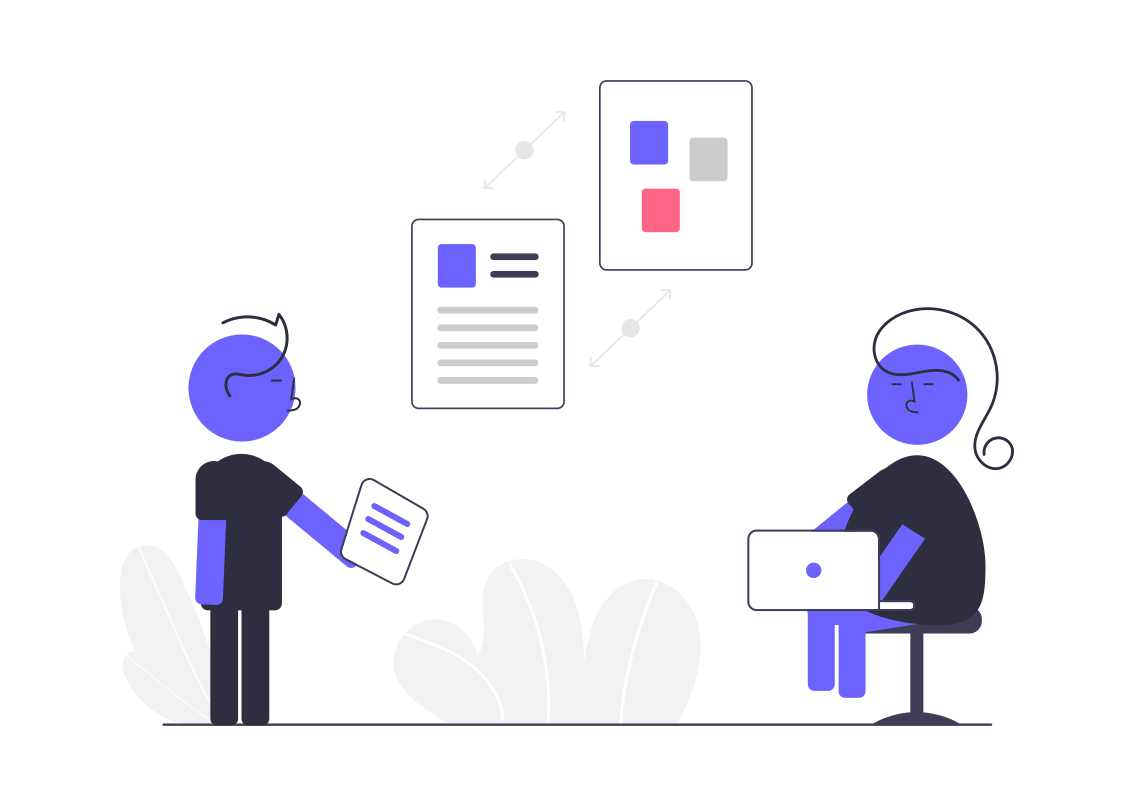
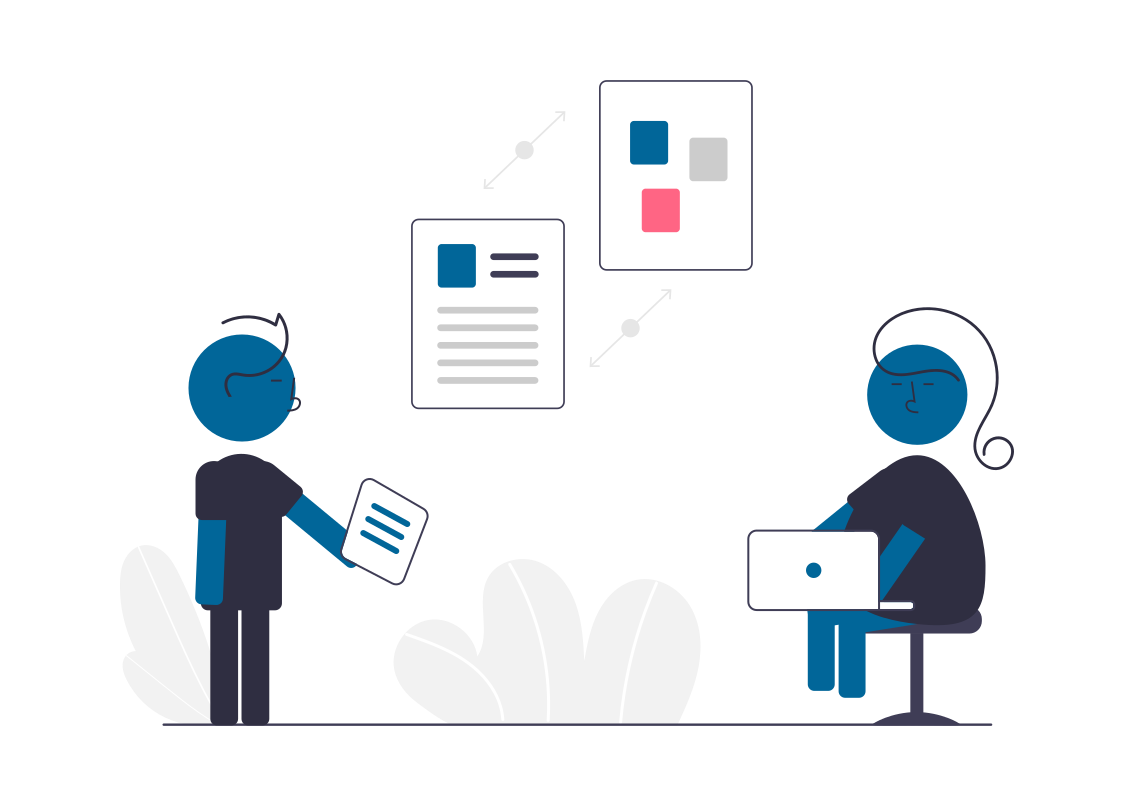
fix loading screen, upload page style

diff --git a/src/components/Main/Main.js b/src/components/Main/Main.js
@@ -5,23 +5,8 @@ import { UserAuth } from "../../context/AuthContext";
 import uploadpng from "../../assets/images/uploadcv/upload.png";
 import "./main.css";
 
-
 const MainComp = () => {
   const { user } = UserAuth();
-  // const [response, setResponse] = useState([]);
-  // const navigate = useNavigate();
-  // const [loading, setLoading] = useState(true);
-  // const result = Object.values(response.experiences)
-
-  // const handleLogout = async () => {
-  //   try {
-  //     await logout();
-  //     navigate("/");
-  //     console.log("You are logged out");
-  //   } catch (e) {
-  //     console.log(e.message);
-  //   }
-  // };
 
   //Fetching API
   const UploadPdf = async (event) => {
@@ -29,7 +14,6 @@ const MainComp = () => {
     const uuid = `${user.uid}`;
     console.log(uuid);
     const formData = {
-      // uid: uuid,
       file: filePdf,
     };
     console.log(formData);
@@ -45,10 +29,8 @@ const MainComp = () => {
       const response = await axios({
         method: "POST",
         url: `http://34.123.130.206:5000/api/v1/predict?uid=${uuid}`,
-        // { uid: uuid, file: filePdf }
         data: formData,
         headers: header,
-        // responseType: "json",
       });
       console.log(response);
     } catch (error) {
@@ -56,22 +38,6 @@ const MainComp = () => {
     }
   };
 
-  // useEffect(() => {
-  //   axios
-  //     .get(
-  //       `https://talentlyca-db-default-rtdb.asia-southeast1.firebasedatabase.app/inferences/${user.uid}.json`
-  //     )
-  //     .then((res) => {
-  //       console.log(res.data);
-  //       setResponse(res.data);
-  //       setLoading(false);
-  //     })
-  //     .catch((err) => {
-  //       setLoading(false);
-  //       console.log(err);
-  //     });
-  // }, []);
-  
   return (
     <>
       <h1 className="title"> CV Extraction </h1>
@@ -83,18 +49,30 @@ const MainComp = () => {
           </div>
 
           <form>
+            <label className="btn-choose">
+              Choose File
             <input
-              className="btn-choose"
+            className="input-xx"
               type="file"
               name="file"
               accept="application/pdf"
               onChange={UploadPdf}
             />
+            </label>
           </form>
+          <p class="drop"> Please choose only PDF</p>
         </section>
       </div>
-      <div>
-        <Link to="/result">Result Page</Link>
+      <div className="btn-nav">
+        <Link to="/">
+          <button className="btn-left">Back</button>
+        </Link>
+
+        <Link to="/result">
+          <button className="btn-right">Confirm</button>
+        </Link>
+
+        
       </div>
 
       {/* <div className="button">
@@ -102,38 +80,6 @@ const MainComp = () => {
           <a href="#">Back</a>
           <a href="#">Confirm</a>
         </ul>
-      </div> */}
-      {/* <div className="position">
-        <div className="result-head">
-          <div className="container-res">
-            <h2>Name : {user.displayName}</h2>
-            <h2>Email : {user.email}</h2>
-
-            <h1>Result</h1>
-            <h2>Experiences</h2>
-            {Object.values(response.experiences)?.map((item, index) => {
-              return (
-                <ul>
-                  <li>{item}</li>
-                </ul>
-              );
-            })}
-
-            <h2>Skills</h2>
-            {Object.values(response.skills)?.map((item, index) => {
-              return (
-                <ul>
-                  <li>{item}</li>
-                </ul>
-              );
-            })}
-
-            <button className="btn-logout" onClick={handleLogout}>
-              Log out
-            </button>
-
-          </div>
-        </div>
       </div> */}
     </>
   );

diff --git a/src/components/Main/main.css b/src/components/Main/main.css
@@ -1,90 +1,96 @@
-.title{
-	text-align: center;
-	padding: 30px;
+.title {
+  text-align: center;
+  padding: 30px;
 }
 #upload {
-	background-color: #016699;
-	padding: 30px;
+  background-color: #016699;
+  padding: 30px;
+  margin-bottom: 20px;
 }
 .container {
-text-align: center;   
-padding: 30px; 
-color: #ffffff;
+  text-align: center;
+  padding: 30px;
+  color: #ffffff;
+}
+
+.btn-nav {
+  display: flex;
+  justify-content: right;
+  margin-bottom: 50px;
+}
+
+.btn-left {
+  padding: 20px;
+	padding-right: 20px;
+  border: none;
+  background-color: #ffffff;
+  font-size: 1rem;
+  color: #016699;
+  text-decoration: none;
+  font-weight: bold;
+}
+.btn-right {
+  padding: 20px;
+  padding-right: 60px;
+  border: none;
+  background-color: #ffffff;
+  font-size: 1rem;
+  color: #016699;
+  text-decoration: none;
+  font-weight: bold;
+}
+
+.btn-right:hover {
+  color: black;
+}
+.btn-left:hover {
+  color: black;
 }
 
 .container img {
-height: 200px;
-width: 200px;
+  height: 130px;
+  width: 130px;
 }
 
 .btn-choose {
-padding-right: 100%;
-text-decoration: none;
-border-radius: 20px; 
-background-color: #fafafa;
-cursor: pointer;
-border-color: white;
-width: 10%;
-padding: 10px;
-font-size: 15px;
+  text-decoration: none;
+  border-radius: 20px;
+  background-color: #fafafa;
+  cursor: pointer;
+  border-color: white;
+  width: 10%;
+  padding: 12px 25px;
+  font-size: 1rem;
+	color: black;
+	font-weight: 600;
 }
 
-input {
-	background: transparent;
-	border-color: white;
+.input-xx{
+	display: none;
 }
 
 .btn-choose:hover {
-	background-color: black ;
+  background-color: black;
+	color: #ffffff;
 }
 
 .drop {
-color: white;
-padding-bottom: 20px;
-font-family:Arial, Helvetica, sans-serif;
+  color: white;
+  padding-bottom: 20px;
+  font-family: Arial, Helvetica, sans-serif;
+	font-size: small;
+	margin-top: 30px;
 }
 
-.right{
-float: right;
-display: block;
-padding-right: 50px;
+.right {
+  float: right;
+  display: block;
+  padding-right: 50px;
 }
 
-.button ul a{
-padding: 15px;
-background: black;
-color: white;
-border-radius: 10px;
-}
-
-.result-head{
-	box-shadow: 0 4px 8px 0 rgba(0,0,0,0.2);
-  transition: 0.3s;
-	width: 40%;
-	margin: 60px 0;
-	
-}
-.container-res {
-  padding: 2px 32px;
-	
-}
-.position{
-	display:flex;
-	justify-content: center;
-	align-items: center;
-}
-
-.btn-logout{
-	margin: 20px 0;
-	text-decoration: none;
-	border-radius: 5px;
-	background-color: tomato;
-	color: #ffffff;
-	padding: 5px;
-	font-size: 1rem;
-	border-color: white;
-	cursor: pointer;
-}
-.btn-logout:hover{
-	background-color: #016699;
+.button ul a {
+  padding: 15px;
+  background: black;
+  color: white;
+  border-radius: 10px;
 }

diff --git a/src/components/Result/result.js b/src/components/Result/result.js
@@ -3,6 +3,7 @@ import { React, useState, useEffect } from "react";
 import { useNavigate } from "react-router-dom";
 import { UserAuth } from "../../context/AuthContext";
 import LoadingImage from "../../assets/images/Loading/loading.png";
+import "./result.css";
 
 const Result = () => {
   const { user, logout } = UserAuth();
@@ -34,12 +35,28 @@ const Result = () => {
       console.log(e.message);
     }
   };
-	if (response === null) {
-		return <img src={LoadingImage} alt="loading" />;
-	}
+  if (response === null) {
+    return (
+      <div className="img-con">
+        <div className="img-load">
+          <img src={LoadingImage} alt="loading" />
+        </div>
+        <div className="text-load">
+          <p>.....please wait, we are extracting your cv.....</p>
+        </div>
+      </div>
+    );
+  }
 
   if (loading) {
-    return <img src={LoadingImage} alt="loading" />;
+    return (
+      <div className="img-con">
+        <img className="img-load" src={LoadingImage} alt="loading" />
+        <p className="text-load">
+          .....please wait, we are extracting your cv.....
+        </p>
+      </div>
+    );
   }
 
   return (

diff --git a/src/components/Result/result.css b/src/components/Result/result.css
@@ -1,0 +1,53 @@
+.result-head {
+  box-shadow: 0 4px 8px 0 rgba(0, 0, 0, 0.2);
+  transition: 0.3s;
+  width: 40%;
+  margin: 60px 0;
+}
+
+.container-res {
+  padding: 2px 32px;
+}
+.position {
+  display: flex;
+  justify-content: center;
+  align-items: center;
+}
+
+.btn-logout {
+  margin: 20px 0;
+  text-decoration: none;
+  border-radius: 5px;
+  background-color: tomato;
+  color: #ffffff;
+  padding: 5px;
+  font-size: 1rem;
+  border-color: white;
+  cursor: pointer;
+}
+.btn-logout:hover {
+  background-color: #016699;
+}
+
+.img-load {
+  display: flex;
+  justify-content: center;
+  align-items: center;
+}
+
+.img-con img {
+  height: 100%;
+  width: 100%;
+  max-width: 800px;
+}
+
+.text-load {
+	display: flex;
+  justify-content: center;
+  align-items: center;
+  border-radius: 10px;
+	margin: 0 500px;
+	margin-bottom: 50px;
+	background-color: #D9D9D9;
+	color: #016699;
+}
